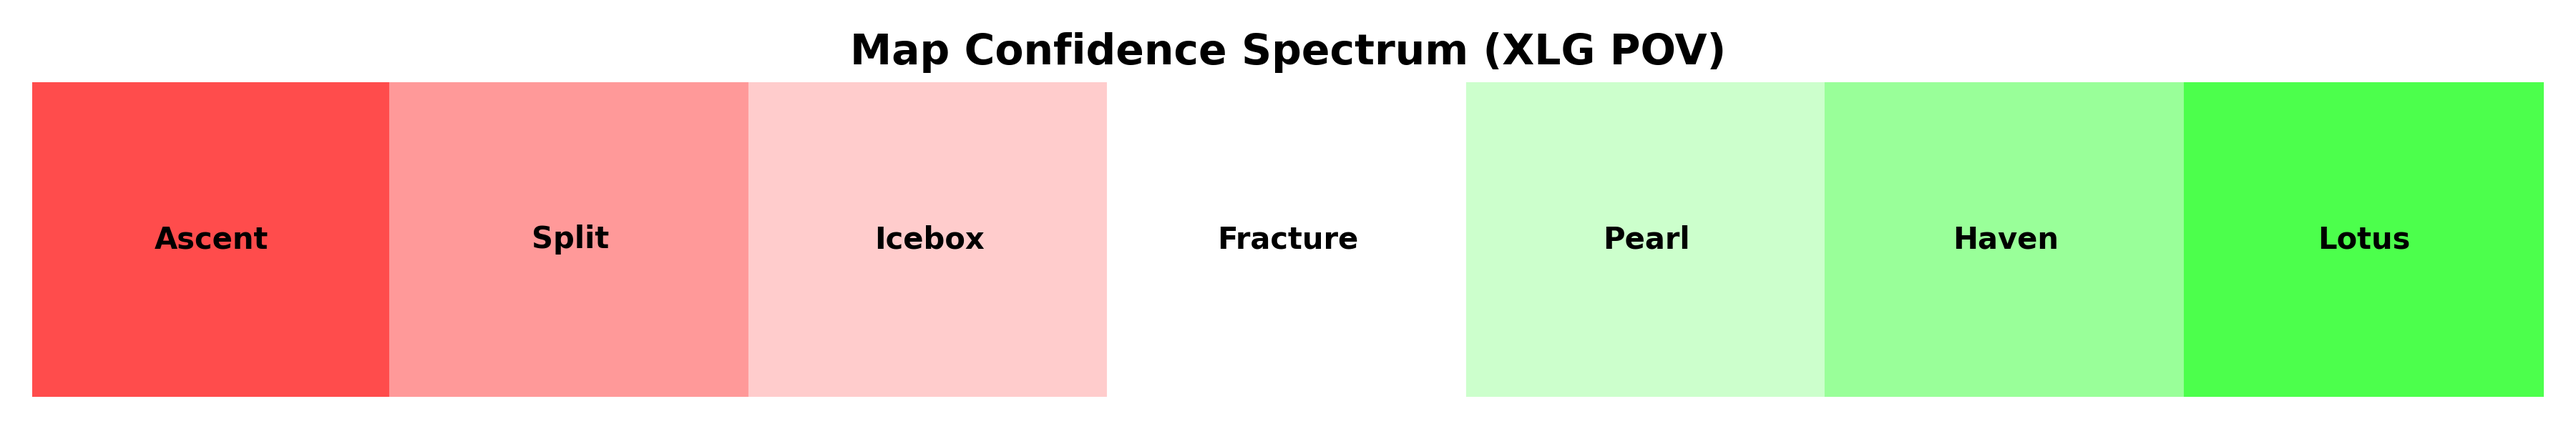
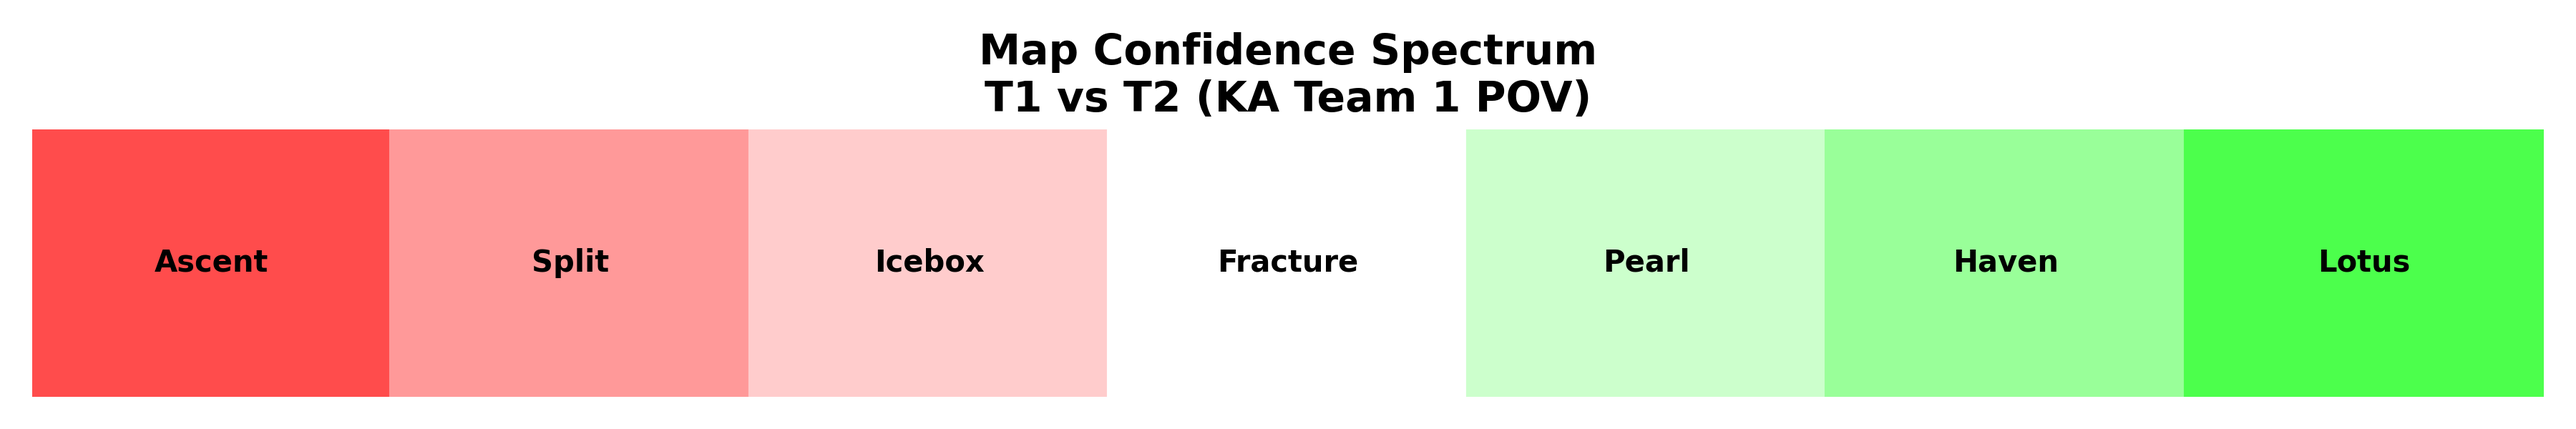
Modified code to be able to public the image

diff --git a/spectrum_cli.py b/spectrum_cli.py
@@ -1,6 +1,7 @@
 
 import pandas as pd
 import matplotlib.pyplot as plt
+from matplotlib.offsetbox import AnchoredText
 import argparse
 
 # === CLI ARGUMENT PARSER ===
@@ -69,7 +70,9 @@ for i, (map_name, color) in enumerate(zip(ordered_maps, map_colors)):
 ax.set_xlim(0, 7)
 ax.set_ylim(0, 1)
 ax.axis('off')
-plt.title("Map Confidence Spectrum (KA Team 1 POV)", fontsize=14, weight='bold')
+plt.title("Map Confidence Spectrum\nT1 vs T2 (KA Team 1 POV)", fontsize=14, weight='bold')
+# subtitle_text = AnchoredText('Sampled from official scrims', loc='lower center', prop=dict(size=10), frameon=False)
+# plt.gca().add_artist(subtitle_text)
 plt.tight_layout()
 plt.savefig(args.output, dpi=300)
 plt.show()
